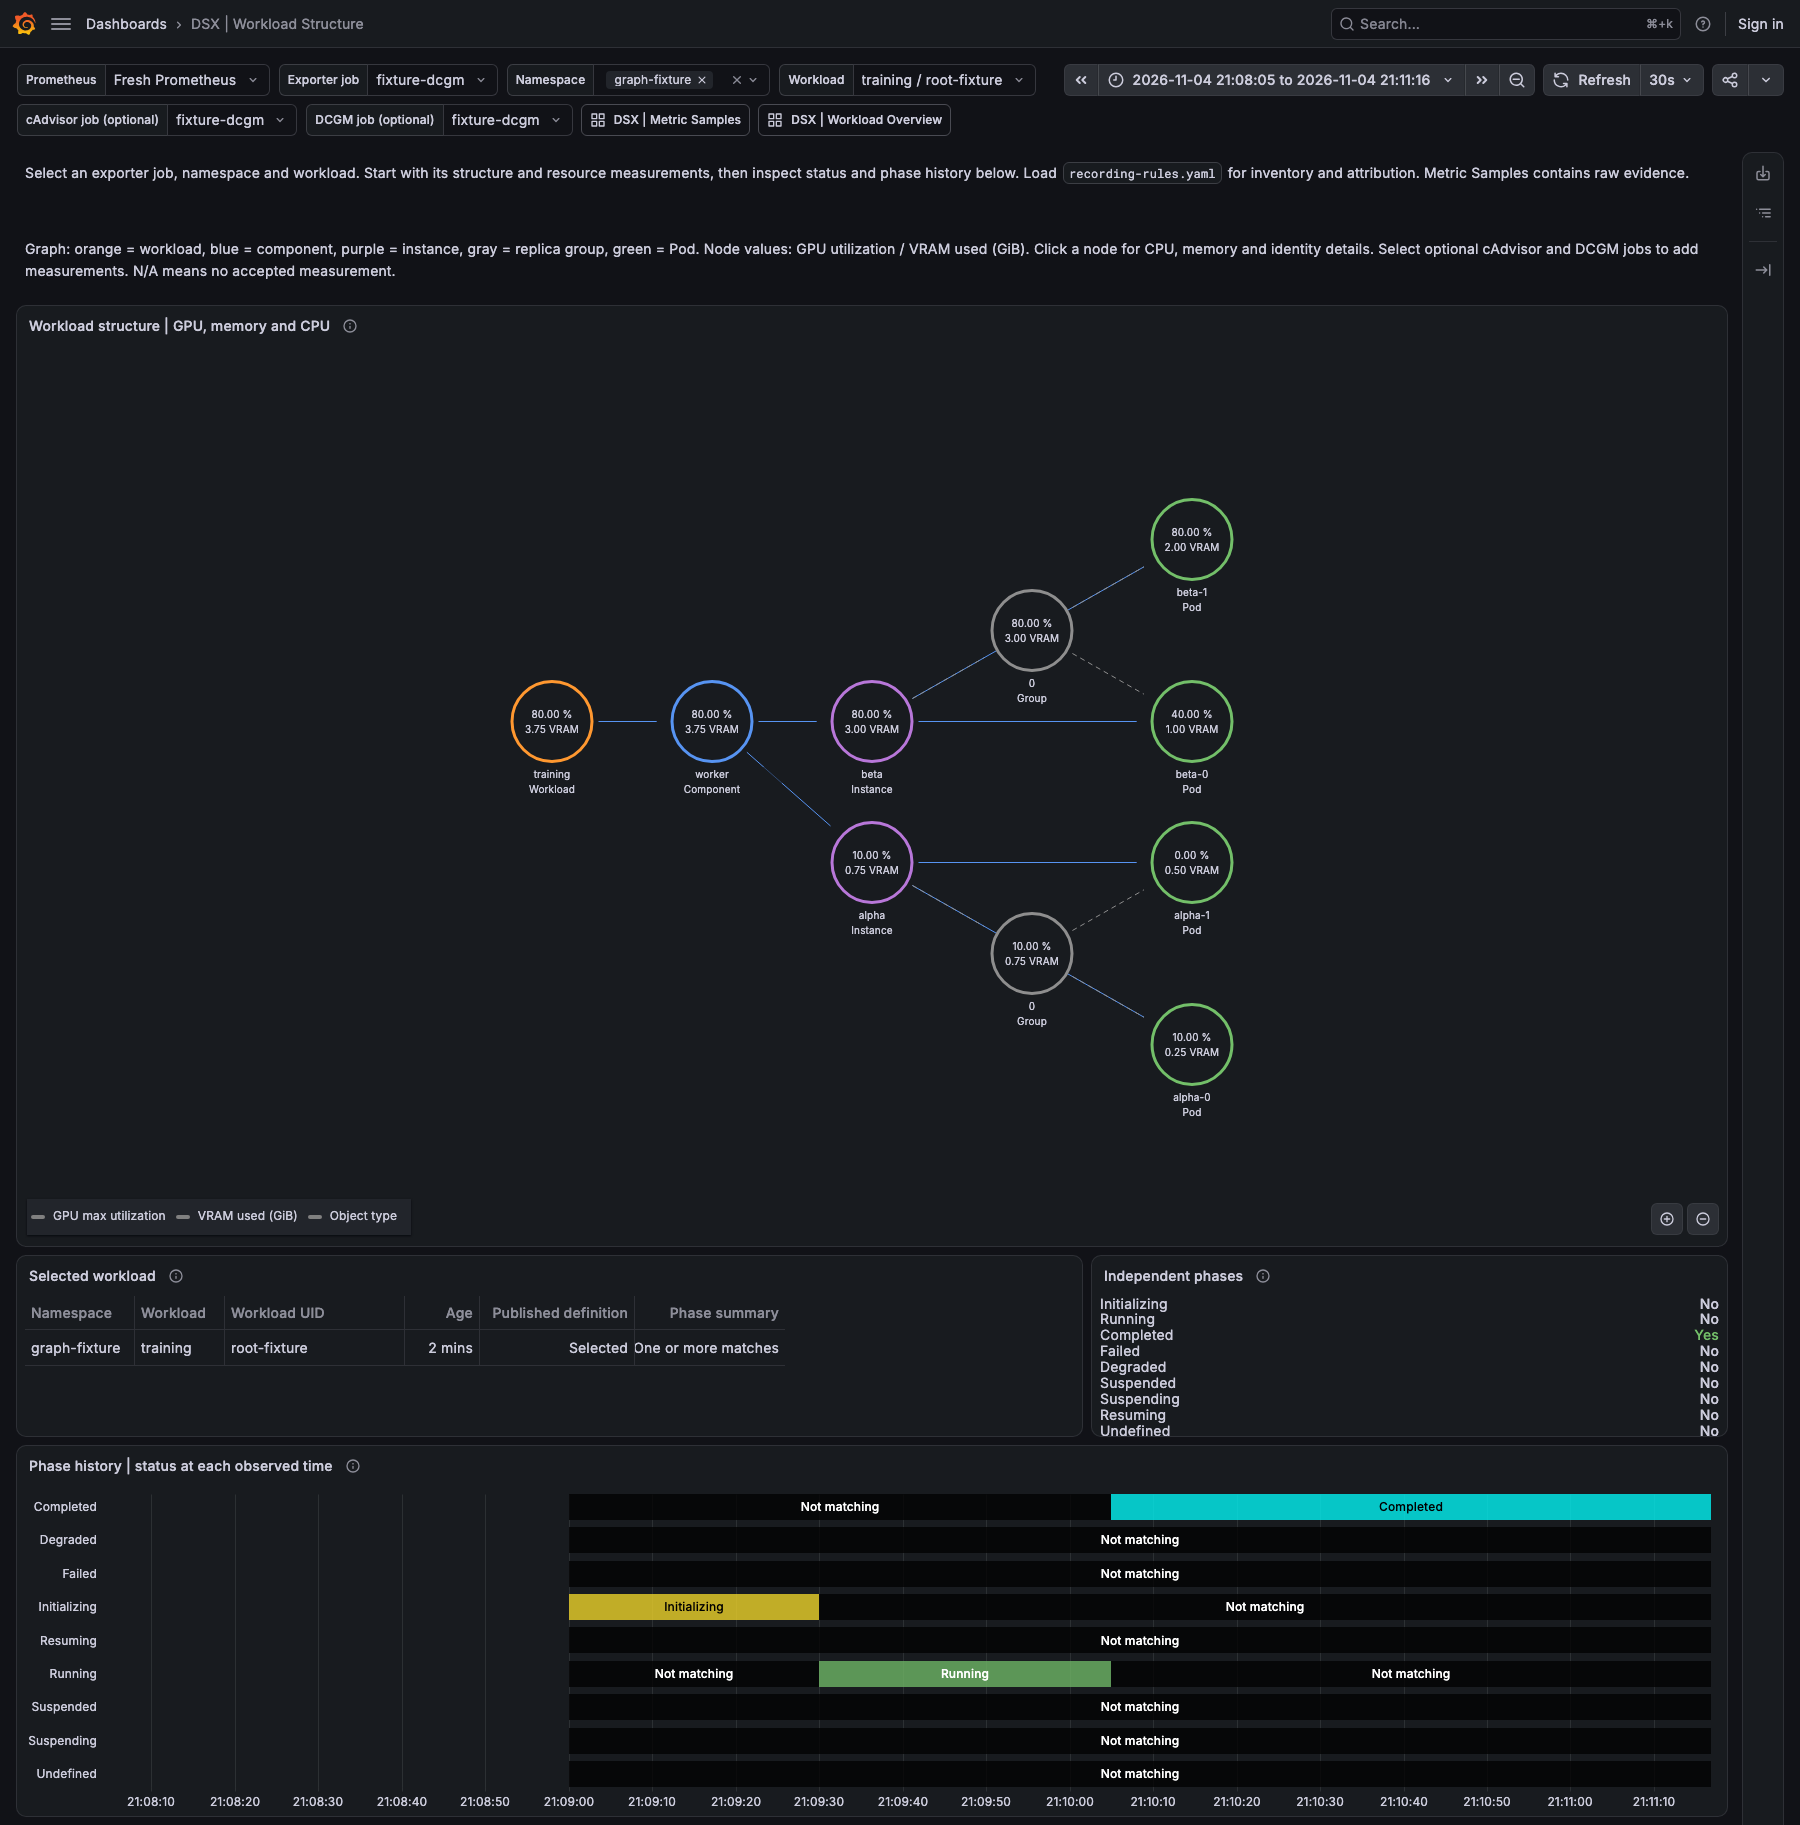
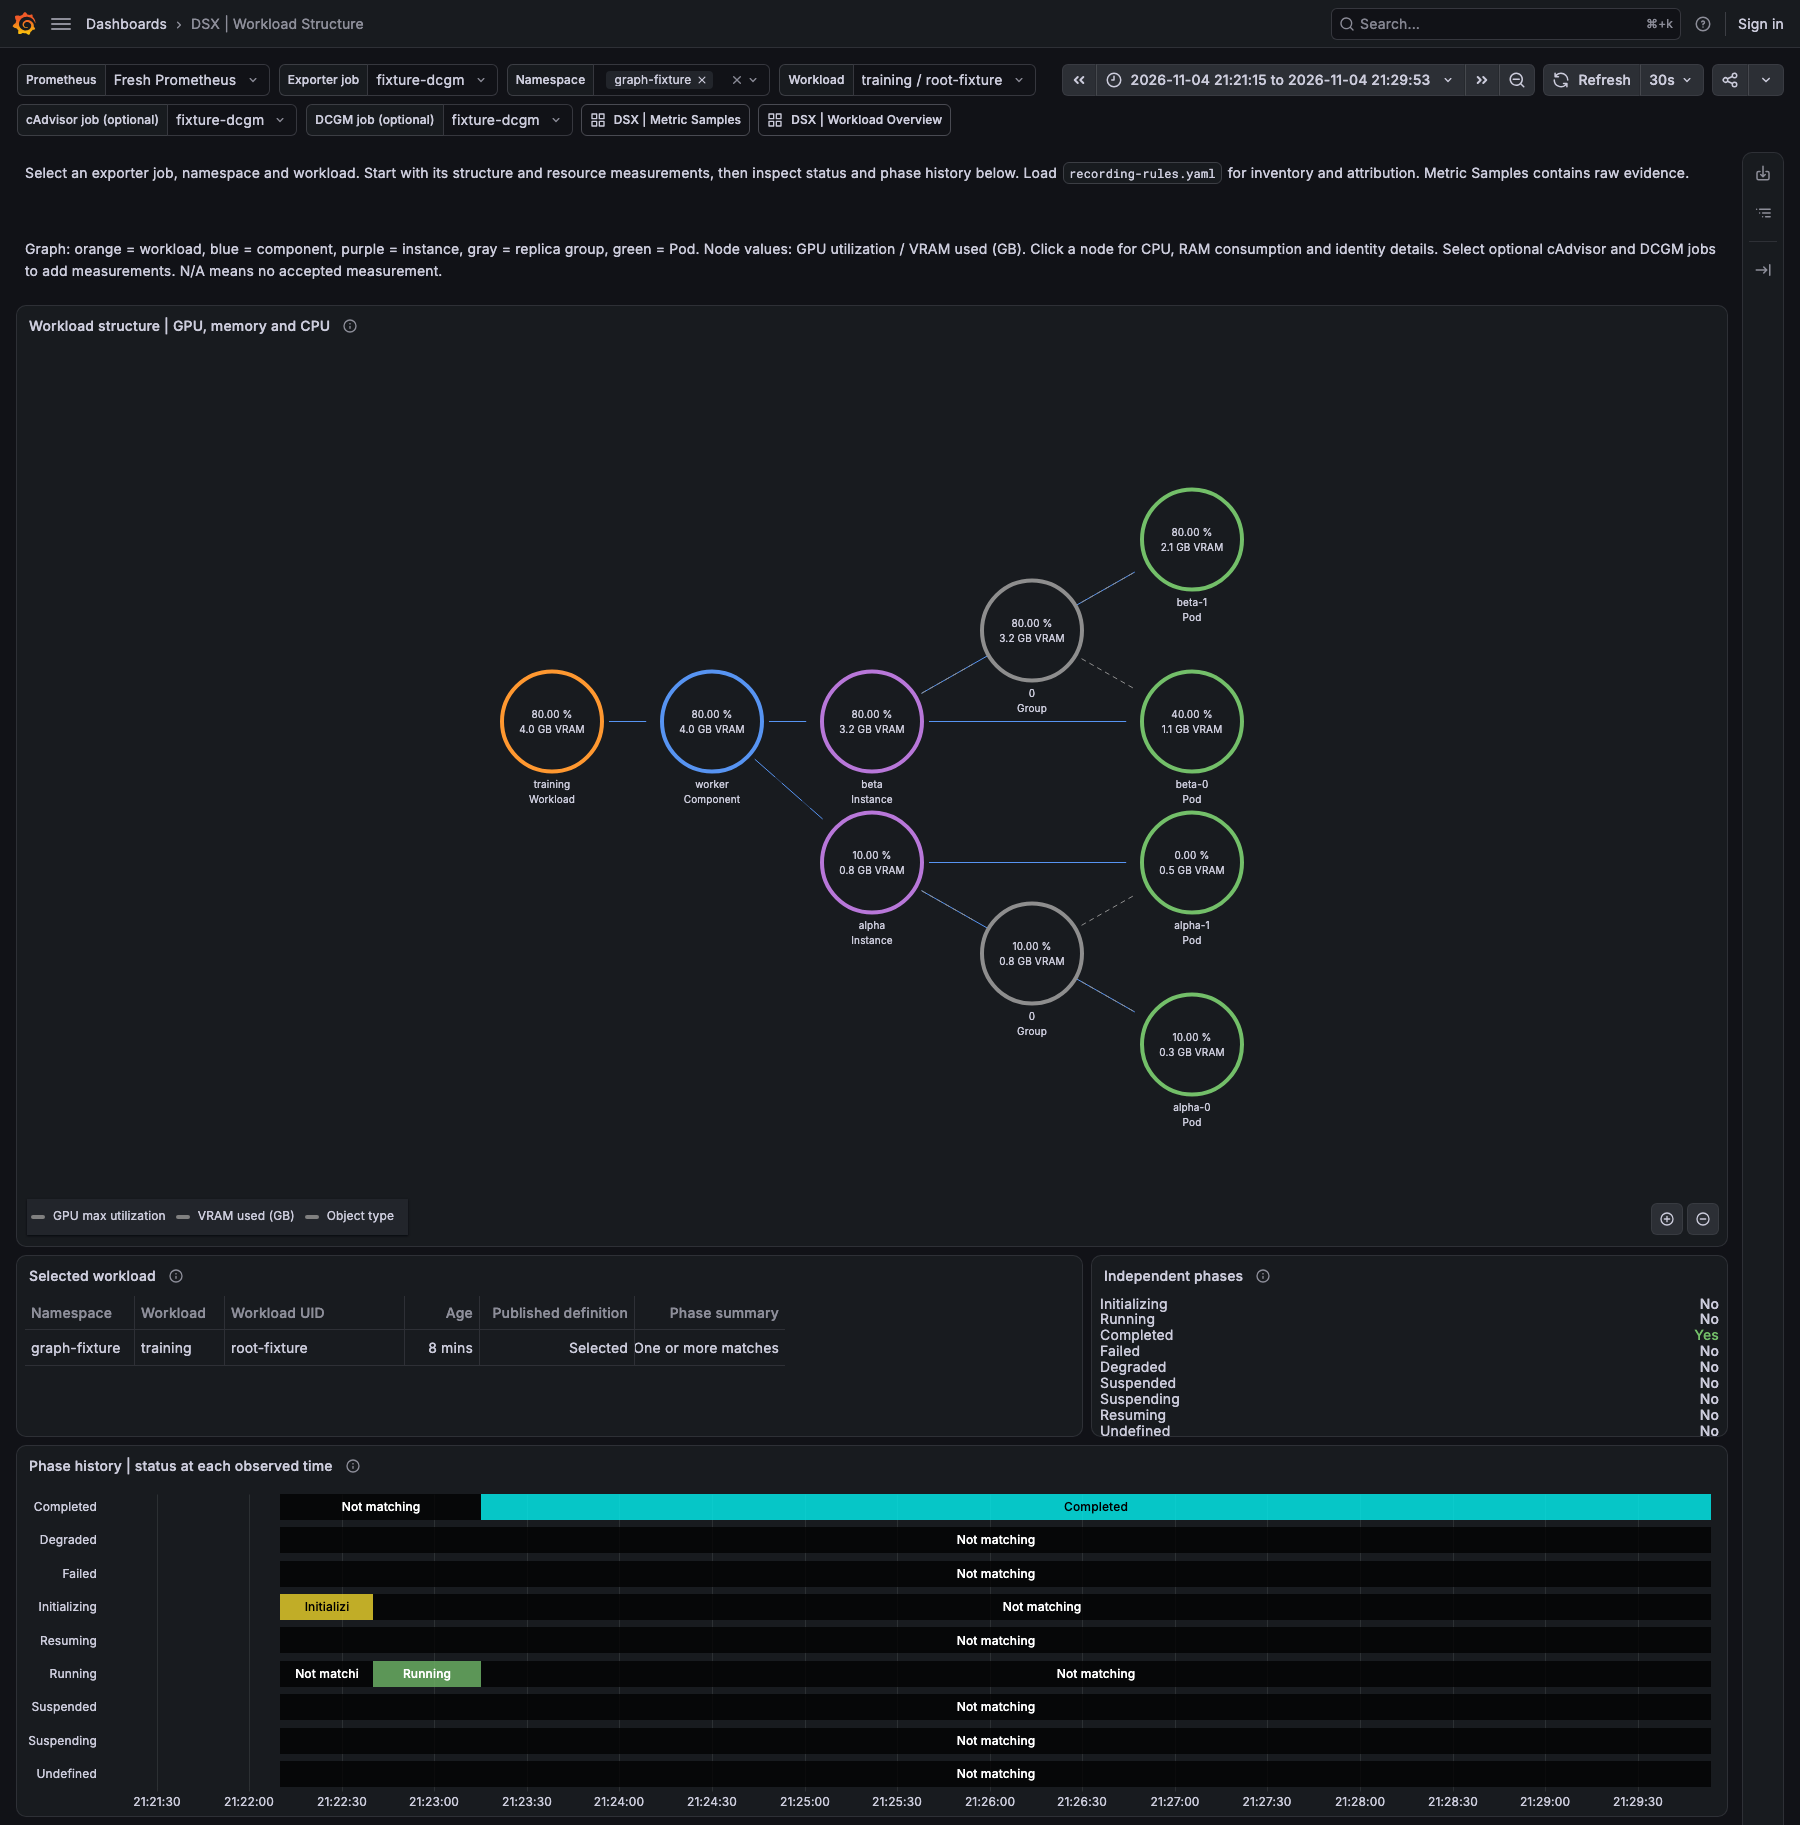
fix(exporter): clarify graph memory values and enlarge nodes

diff --git a/dsx-workload-exporter/examples/grafana/README.md b/dsx-workload-exporter/examples/grafana/README.md
@@ -21,9 +21,9 @@ jobs.
 
 [Import Workload Structure](workload-structure.json). Select one workload by UID.
 Follow its components, instances, groups and Pods in the graph. Nodes show maximum
-measured GPU utilization and GPU memory used. VRAM values are in GiB, as labeled
-in the graph legend and node details. Click a node for CPU, working-set memory
-and identity details. Grafana opens these details on click, not hover.
+measured GPU utilization and GPU memory used. Graph VRAM values use GB (decimal
+gigabytes). Click a node for CPU, RAM consumption and identity details. RAM is
+container working-set memory, shown in MiB. Grafana opens these details on click, not hover.
 Status and phase history follow the graph. The exact attribution table remains
 available below them.
 
